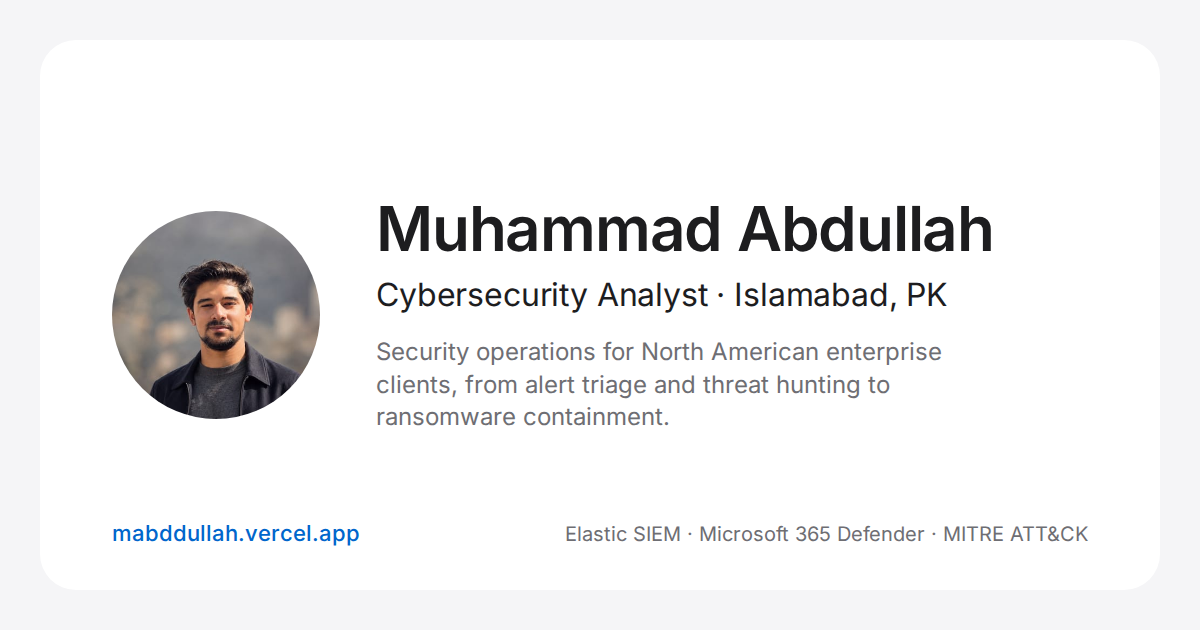
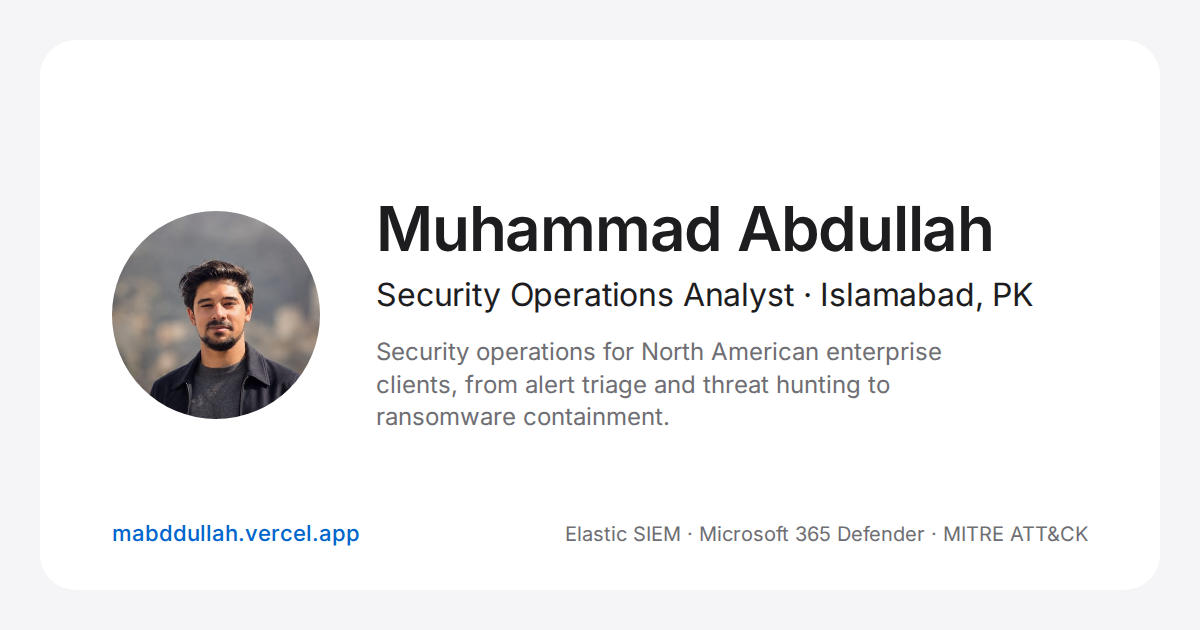
Use Security Operations Analyst as the job title and drop the Security+ study line from About

Changed region(s): [[0.3083, 0.4524, 0.8633, 0.5127]]

diff --git a/index.html b/index.html
@@ -3,10 +3,10 @@
   <head>
     <meta charset="UTF-8" />
     <meta name="viewport" content="width=device-width, initial-scale=1.0" />
-    <title>Muhammad Abdullah | Cybersecurity Analyst</title>
+    <title>Muhammad Abdullah | Security Operations Analyst</title>
     <meta
       name="description"
-      content="Muhammad Abdullah is a cybersecurity analyst based in Islamabad, working remotely. SOC work, threat hunting and incident response for North American enterprise clients using Elastic SIEM and Microsoft 365 Defender, plus Python log automation."
+      content="Muhammad Abdullah is a security operations analyst based in Islamabad, working remotely. SOC work, threat hunting and incident response for North American enterprise clients using Elastic SIEM and Microsoft 365 Defender, plus Python log automation."
     />
     <meta name="author" content="Muhammad Abdullah" />
     <meta name="theme-color" content="#fafafc" />
@@ -23,25 +23,25 @@
     <meta property="og:type" content="website" />
     <meta property="og:site_name" content="Muhammad Abdullah" />
     <meta property="og:locale" content="en_US" />
-    <meta property="og:title" content="Muhammad Abdullah | Cybersecurity Analyst" />
+    <meta property="og:title" content="Muhammad Abdullah | Security Operations Analyst" />
     <meta
       property="og:description"
       content="SOC work, threat hunting and incident response for North American enterprise clients using Elastic SIEM and Microsoft 365 Defender."
     />
     <meta property="og:url" content="https://mabddullah.vercel.app" />
-    <meta property="og:image" content="https://mabddullah.vercel.app/og.png?v=2" />
+    <meta property="og:image" content="https://mabddullah.vercel.app/og.png?v=3" />
     <meta property="og:image:width" content="1200" />
     <meta property="og:image:height" content="630" />
-    <meta property="og:image:alt" content="Muhammad Abdullah, Cybersecurity Analyst in Islamabad" />
+    <meta property="og:image:alt" content="Muhammad Abdullah, Security Operations Analyst in Islamabad" />
 
     <!-- Twitter / X -->
     <meta name="twitter:card" content="summary_large_image" />
-    <meta name="twitter:title" content="Muhammad Abdullah | Cybersecurity Analyst" />
+    <meta name="twitter:title" content="Muhammad Abdullah | Security Operations Analyst" />
     <meta
       name="twitter:description"
       content="SOC work, threat hunting and incident response for North American enterprise clients using Elastic SIEM and Microsoft 365 Defender."
     />
-    <meta name="twitter:image" content="https://mabddullah.vercel.app/og.png?v=2" />
+    <meta name="twitter:image" content="https://mabddullah.vercel.app/og.png?v=3" />
 
     <link rel="canonical" href="https://mabddullah.vercel.app" />
 
@@ -53,9 +53,9 @@
         "@type": "Person",
         "name": "Muhammad Abdullah",
         "url": "https://mabddullah.vercel.app",
-        "image": "https://mabddullah.vercel.app/og.png?v=2",
-        "jobTitle": "Cybersecurity Analyst",
-        "description": "Cybersecurity analyst running remote SOC, threat hunting, and incident response for North American clients.",
+        "image": "https://mabddullah.vercel.app/og.png?v=3",
+        "jobTitle": "Security Operations Analyst",
+        "description": "Security operations analyst running remote SOC, threat hunting, and incident response for North American clients.",
         "worksFor": { "@type": "Organization", "name": "Ninpo Inc.", "url": "https://ninpo.com" },
         "address": {
           "@type": "PostalAddress",

diff --git a/src/app/components/resume-data.ts b/src/app/components/resume-data.ts
@@ -71,7 +71,7 @@ export interface Certification {
 
 export const profile = {
   name: 'Muhammad Abdullah',
-  title: 'Cybersecurity Analyst',
+  title: 'Security Operations Analyst',
   location: 'Islamabad, PK',
   // One-line summary under the title. Every claim here is backed by an entry below.
   tagline:
@@ -80,14 +80,13 @@ export const profile = {
   portfolioHref: 'https://mabddullah.vercel.app',
   // Third-person summary for the downloadable CV. Every claim is backed below.
   cvSummary:
-    'Cybersecurity analyst with two years of SOC, incident response and IT operations work for North American enterprise clients. Investigates 100+ alerts a week in Elastic SIEM and Microsoft 365 Defender and supported the response to an active, threat actor-led ransomware attack. Also designs and builds accessible websites using AI-assisted development.',
+    'Security operations analyst with two years of SOC, incident response and IT operations work for North American enterprise clients. Investigates 100+ alerts a week in Elastic SIEM and Microsoft 365 Defender and supported the response to an active, threat actor-led ransomware attack. Also designs and builds accessible websites using AI-assisted development.',
   site: 'linkedin.com/in/mabddullah',
   siteHref: 'https://www.linkedin.com/in/mabddullah',
   about: [
-    "I'm a cybersecurity analyst at Ninpo Inc., working remotely as a SOC analyst for North American enterprise clients. For the past **two years** I've triaged alerts, hunted threats and helped contain incidents, including an **active, threat actor-led ransomware attack**, where I helped isolate compromised domain controllers and ESXi hosts before large-scale encryption.",
+    "I'm a security operations analyst at Ninpo Inc., working remotely in the SOC for North American enterprise clients. For the past **two years** I've triaged alerts, hunted threats and helped contain incidents, including an **active, threat actor-led ransomware attack**, where I helped isolate compromised domain controllers and ESXi hosts before large-scale encryption.",
     "Each week I investigate **100+ alerts** in Elastic SIEM and Microsoft 365 Defender, and I use Python and Pandas to automate log analysis so triage stays fast. I also keep Canadian client environments running: Microsoft 365 tenant administration, firewall and VPN configuration, and endpoint provisioning.",
     'I also design and build websites. I use AI coding tools for the build and put my own time into layout, accessibility and user experience. This site is one example.',
-    "I'm currently studying for CompTIA Security+.",
   ],
 };
 
@@ -102,7 +101,7 @@ export const experience: ResumeEntry[] = [
   {
     id: 'ninpo',
     period: 'Oct 2024 to present',
-    title: 'Cybersecurity Analyst',
+    title: 'Security Operations Analyst',
     subtitle: 'Ninpo Inc.',
     href: 'https://ninpo.com',
     meta: 'Ottawa, Canada · Remote',

diff --git a/README.md b/README.md
@@ -1,6 +1,6 @@
 # Muhammad Abdullah: portfolio
 
-Personal portfolio for **Muhammad Abdullah**, Cybersecurity Analyst. It's a
+Personal portfolio for **Muhammad Abdullah**, Security Operations Analyst. It's a
 single-page, static site designed in the style of apple.com, with light/dark
 themes and subtle scroll animations. Live at
 **https://mabddullah.vercel.app**.
